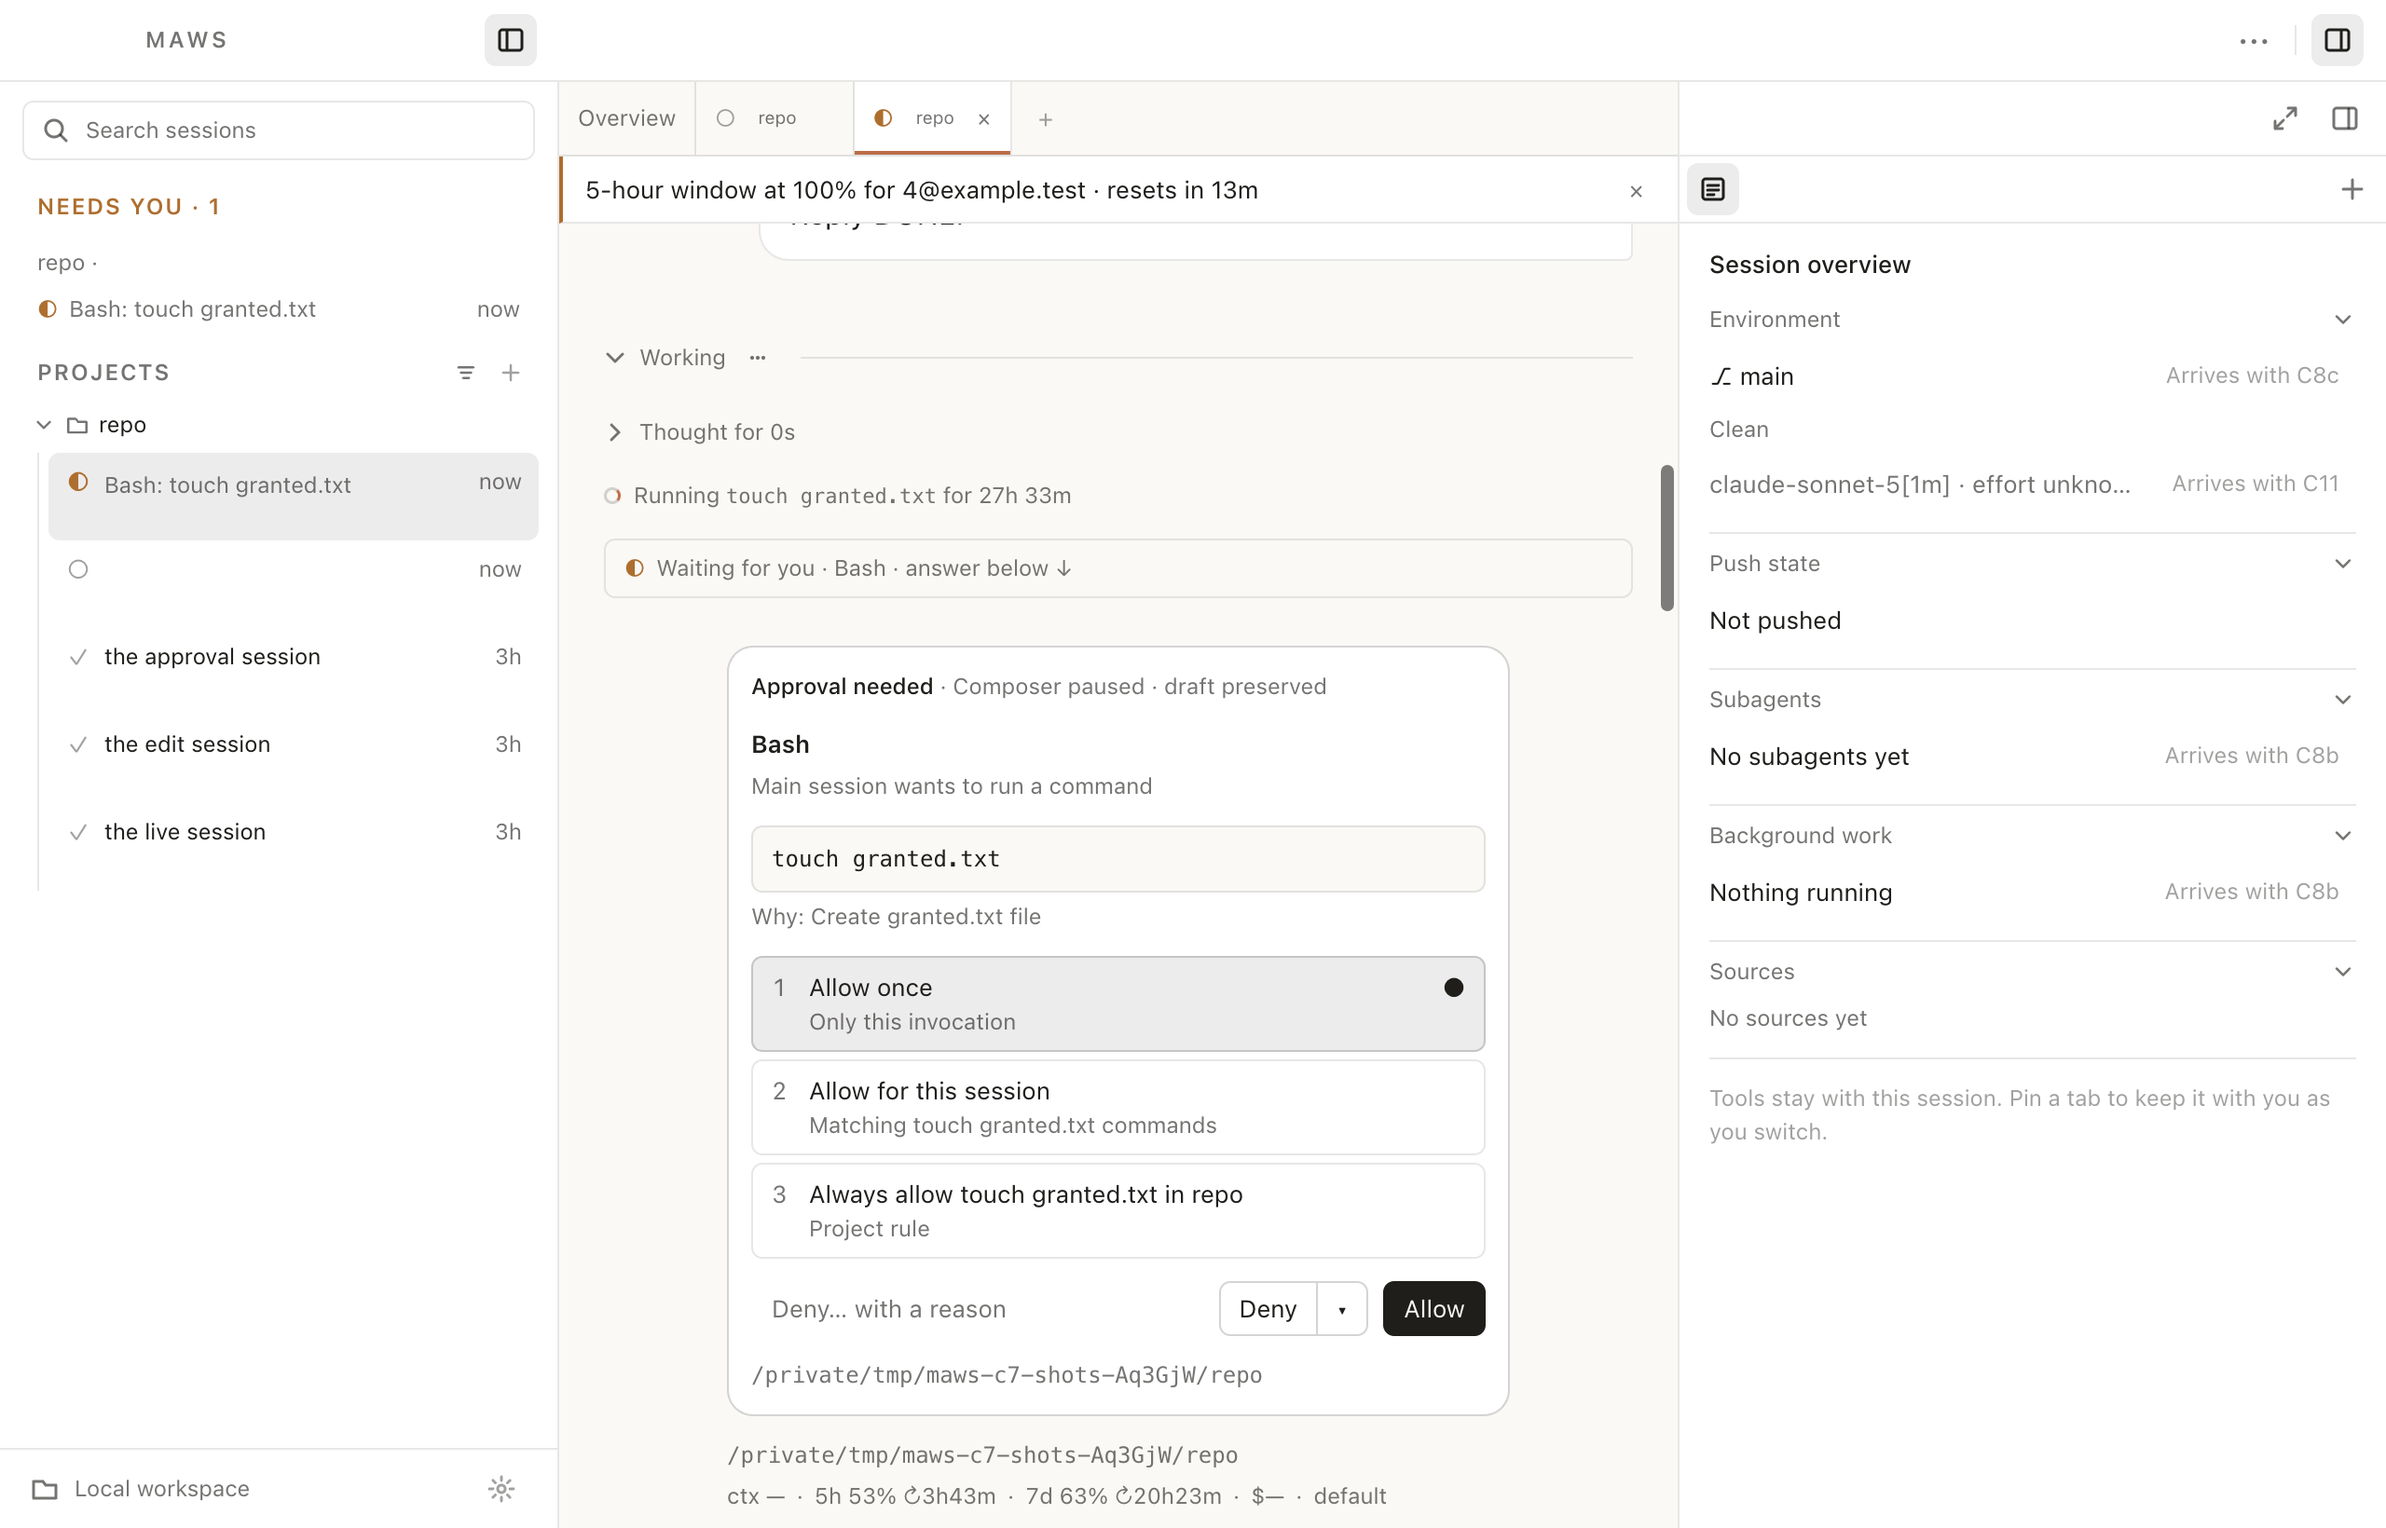
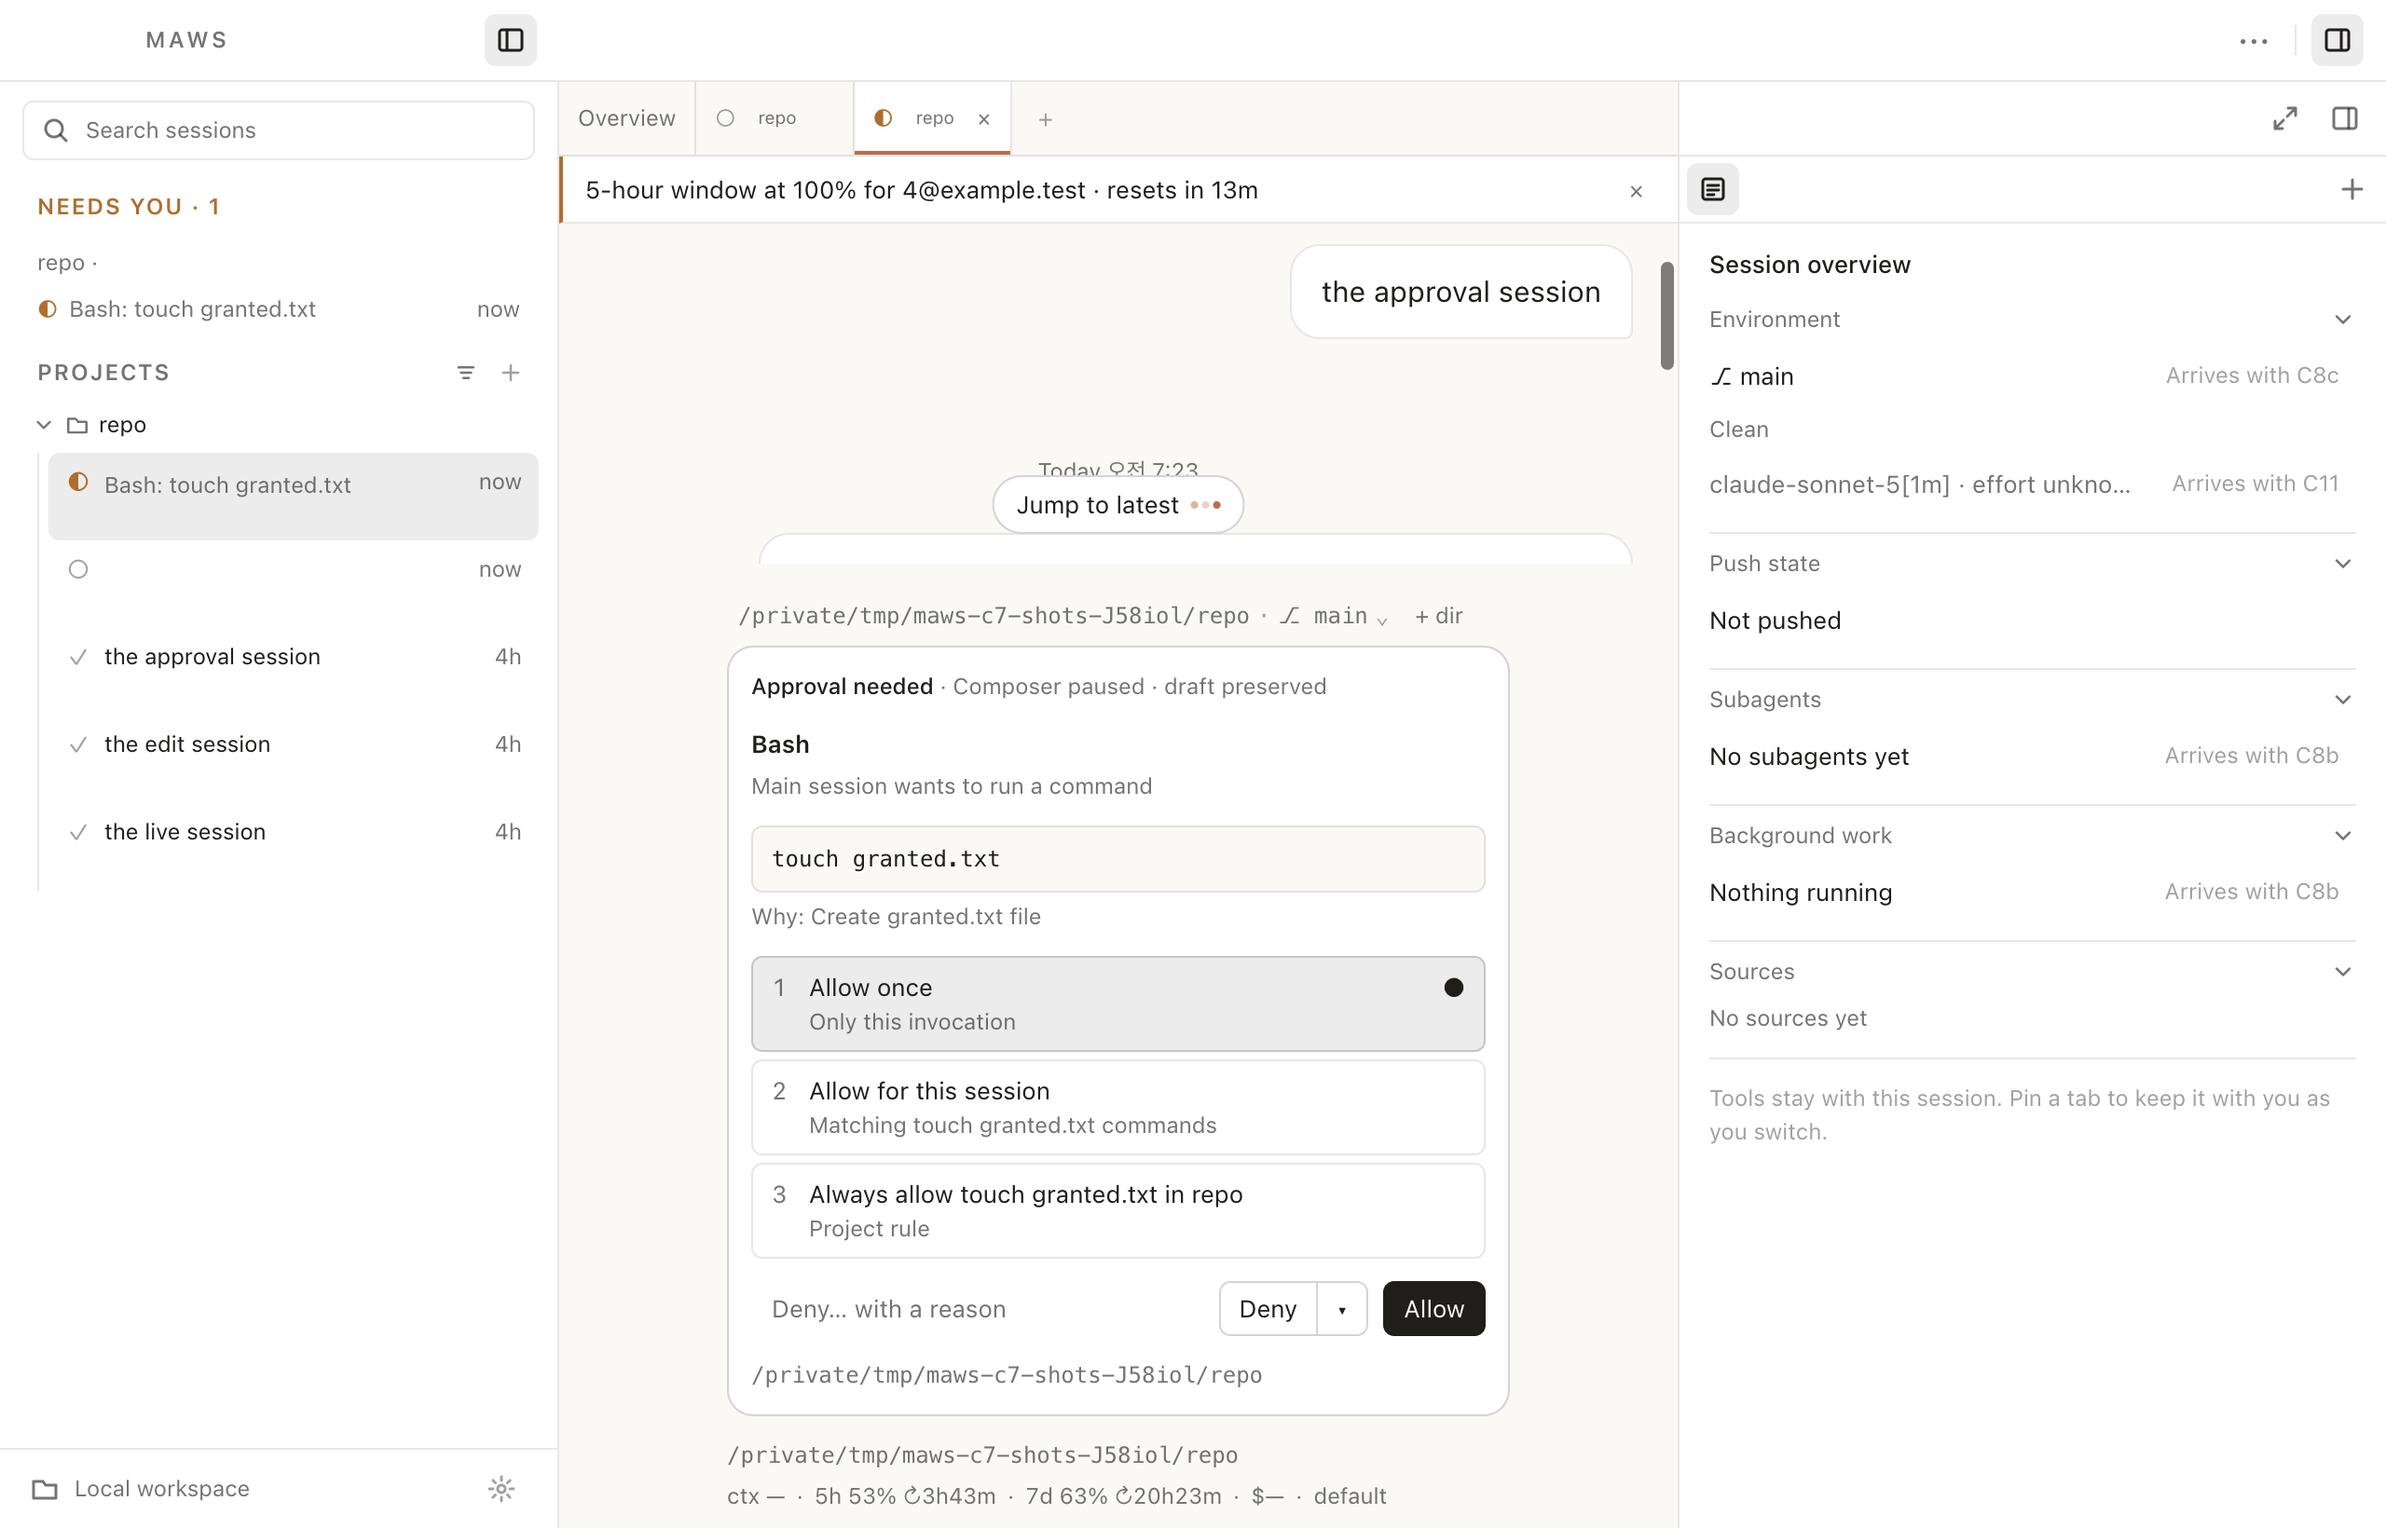
C7 final fixes (architect's ruling on M6): a docked card takes the place of the box and the toolbar under the same chip row (mockup 04), hiding them in the commit it mounts; approval shots retaken

diff --git a/src/renderer/src/composer/frame/Frame.tsx b/src/renderer/src/composer/frame/Frame.tsx
@@ -4,6 +4,9 @@
 // editor scrolls); the toolbar below the box, outside its border. Nothing around it: no heading, no hint line. The
 // same component sits centred on an unstarted session and docked under the transcript (C5 places it); C5's column
 // sizes it at about two thirds of the pane capped near 720 px, and the frame caps itself there too for other hosts.
+// A docked card (a request, or C10's trust and relay-down cards) takes the place of the draft's parts, the attachment
+// strip, the box and the toolbar, under the same chip row (architect's ruling on M6, mockup 04): those parts stay
+// mounted and hidden, so the editor keeps its document, and they hide in the same commit the card mounts.
 import type { ReactNode, RefObject } from 'react';
 import type { Attachment } from '../editor/doc';
 import type { EditorHandle } from '../editor/controller';
@@ -20,20 +23,24 @@ export interface FrameProps {
   editorHandle: RefObject<EditorHandle | null>;
   editor: ReactNode; // M3's Editor (the only element under the composer key sink)
   submit: ReactNode; // the submit control, beside the editor and outside its sink
-  hidden?: boolean; // a docked card has the composer's place: the frame stays mounted (the editor keeps its state)
+  docked?: ReactNode; // a docked card, in the draft's place under the chip row; null or absent: the draft shows
   onOpen?(what: 'models' | 'rules'): void; // a chip showing an engine read opened: the composer reads it then, not per mount
 }
 
-export function Frame({ bindings, cwd, dirty, attachments, editorHandle, editor, submit, hidden = false, onOpen }: FrameProps) {
+export function Frame({ bindings, cwd, dirty, attachments, editorHandle, editor, submit, docked = null, onOpen }: FrameProps) {
+  const isDocked = docked !== null && docked !== undefined;
   return (
-    <div data-composer-frame hidden={hidden} className="mx-auto flex w-full max-w-[720px] min-w-0 flex-col gap-1">
+    <div data-composer-frame data-docked={isDocked || undefined} className="mx-auto flex w-full max-w-[720px] min-w-0 flex-col gap-1">
       <ChipRow bindings={bindings} cwd={cwd} dirty={dirty} onOpen={() => onOpen?.('rules')} />
-      <AttachmentStrip attachments={attachments} onRemove={(id) => editorHandle.current?.removeAttachment(id)} />
-      <div data-composer-box className="flex min-w-0 items-end gap-2 rounded-xl border border-border-strong bg-bg-raised py-1.5 pr-1.5 pl-2.5 focus-within:border-accent">
-        <div className="min-w-0 flex-1 py-0.5">{editor}</div>
-        {submit}
+      {docked}
+      <div data-composer-draft hidden={isDocked} className="flex min-w-0 flex-col gap-1">
+        <AttachmentStrip attachments={attachments} onRemove={(id) => editorHandle.current?.removeAttachment(id)} />
+        <div data-composer-box className="flex min-w-0 items-end gap-2 rounded-xl border border-border-strong bg-bg-raised py-1.5 pr-1.5 pl-2.5 focus-within:border-accent">
+          <div className="min-w-0 flex-1 py-0.5">{editor}</div>
+          {submit}
+        </div>
+        <Toolbar bindings={bindings} cwd={cwd} editor={editorHandle} onOpen={() => onOpen?.('models')} />
       </div>
-      <Toolbar bindings={bindings} cwd={cwd} editor={editorHandle} onOpen={() => onOpen?.('models')} />
     </div>
   );
 }

diff --git a/src/renderer/src/composer/Composer.test.tsx b/src/renderer/src/composer/Composer.test.tsx
@@ -229,14 +229,18 @@ describe("composer DOM under C5's dispatcher", () => {
     const item = itemFor(event, A);
     act(() => useAttention.setState({ bySession: new Map([[A, [item]]]), requests: new Map([[item.id, event]]), version: 1 }));
     const frame = await within(composerOf(0)).findByRole('group', { name: 'Approval needed' });
-    expect(composerOf(0).querySelector('[data-composer-frame]')!.hasAttribute('hidden')).toBe(true);
+    expect(composerOf(0).querySelector('[data-composer-draft]')!.hasAttribute('hidden')).toBe(true); // the box and the toolbar
+    const chips = within(composerOf(0)).getByRole('button', { name: /^Location/ });
+    expect(chips.closest('[hidden]')).toBeNull(); // the chip row stays, above the card (mockup 04)
+    expect(chips.compareDocumentPosition(frame) & Node.DOCUMENT_POSITION_FOLLOWING).toBeTruthy();
+    expect(within(composerOf(0)).getByRole('toolbar', { name: 'Composer tools', hidden: true }).closest('[hidden]')).not.toBeNull();
     expect(editorOf().editor.getText()).toBe('a draft kept aside'); // mounted, hidden
     await waitFor(() => expect(document.activeElement).toBe(frame)); // the pane held focus
     expect(useComposerStore.getState().docked.get(A)?.has('req-a' as never)).toBe(true);
     await key(frame, { key: 'Enter' });
     await waitFor(() => expect(invoked('session.answer')).toHaveLength(1));
     act(() => useAttention.setState({ bySession: new Map([[A, []]]), version: 2 }));
-    await waitFor(() => expect(composerOf(0).querySelector('[data-composer-frame]')!.hasAttribute('hidden')).toBe(false));
+    await waitFor(() => expect(composerOf(0).querySelector('[data-composer-draft]')!.hasAttribute('hidden')).toBe(false));
     expect(editorOf().editor.getText()).toBe('a draft kept aside');
     await waitFor(() => expect(editorOf().contains(document.activeElement)).toBe(true)); // focus is back in the editor
   });
@@ -273,12 +277,12 @@ describe("composer DOM under C5's dispatcher", () => {
     const onAccept = vi.fn();
     const undock = dockCard(A, { id: 'c10:trust', render: () => <DockedCardFrame appSessionId={A} title="Trust this folder?" onAccept={onAccept} onDecline={null}>Trust?</DockedCardFrame> });
     const frame = await within(composerOf(0)).findByRole('group', { name: 'Trust this folder?' });
-    expect(composerOf(0).querySelector('[data-composer-frame]')!.hasAttribute('hidden')).toBe(true);
+    expect(composerOf(0).querySelector('[data-composer-draft]')!.hasAttribute('hidden')).toBe(true);
     act(() => frame.focus());
     await key(frame, { key: 'Enter' });
     expect(onAccept).toHaveBeenCalledTimes(1);
     act(() => undock());
-    await waitFor(() => expect(composerOf(0).querySelector('[data-composer-frame]')!.hasAttribute('hidden')).toBe(false));
+    await waitFor(() => expect(composerOf(0).querySelector('[data-composer-draft]')!.hasAttribute('hidden')).toBe(false));
     expect(editorOf().editor.getText()).toBe('still here');
   });
 

diff --git a/src/renderer/src/composer/Composer.tsx b/src/renderer/src/composer/Composer.tsx
@@ -2,8 +2,9 @@
 // "Unstarted sessions and the docked host"; M4): what C7 renders in C5's `composer` slot for a live, exited or
 // unstarted session. The queued list, then the frame: the chip row over the live or the intent binding, the attachment
 // strip, the box with M3's editor and the submit control, the toolbar. When a request or a docked card needs the
-// human, it takes the frame's place (the frame stays mounted and hidden, so the editor keeps its document, history and
-// undo) and the docked frame takes focus when the pane held it; when it retires, focus goes back to the editor.
+// human, it takes the place of the box and the toolbar under the chip row (they stay mounted and hidden, so the editor
+// keeps its document, history and undo) and the docked frame takes focus when the pane held it; when it retires, focus
+// goes back to the editor.
 //
 // Every submission ends in the editor's `onSubmit`, decided here through `submitState`: an unstarted session's first
 // send goes to C10's `start` under the synchronous `starting` gate; a live one sends (C3 decides sent or queued),
@@ -369,14 +370,19 @@ export function Composer({ appSessionId, paneIndex, client = ipc }: ComposerProp
         <RewindConfirm newerTurn={newerTurn} onConfirm={() => void confirmRewind(client, appSessionId, newerTurn ? newest : null)} onCancel={() => cancelRewind(appSessionId)} />
       )}
       {swap.notice && <RequestCard key={swap.notice.id} item={swap.notice} request={null} placement="docked" paneIndex={paneIndex} />}
-      {card ? (
-        <div key={`card:${card.id}`}>{card.render()}</div>
-      ) : swap.item ? (
-        <RequestCard key={swap.item.id} item={swap.item} request={requests.get(swap.item.id) ?? null} placement="docked" paneIndex={paneIndex} />
-      ) : null}
-      {docked && waiting > 0 && <p className="m-0 text-ui-sm text-fg-muted">{waiting === 1 ? '1 more waiting' : `${waiting} more waiting`}</p>}
       <Frame
-        hidden={docked}
+        docked={
+          docked ? (
+            <>
+              {card ? (
+                <div key={`card:${card.id}`}>{card.render()}</div>
+              ) : swap.item ? (
+                <RequestCard key={swap.item.id} item={swap.item} request={requests.get(swap.item.id) ?? null} placement="docked" paneIndex={paneIndex} />
+              ) : null}
+              {waiting > 0 && <p className="m-0 text-ui-sm text-fg-muted">{waiting === 1 ? '1 more waiting' : `${waiting} more waiting`}</p>}
+            </>
+          ) : null
+        }
         onOpen={(what) => setOpened((o) => (o[what] ? o : { ...o, [what]: true }))}
         bindings={bindings}
         cwd={cwd}

diff --git a/e2e/composer.spec.ts b/e2e/composer.spec.ts
@@ -539,6 +539,8 @@ test('an unstarted session binds the frame to the intent, holds a starting state
   const frame = p.getByRole('group', { name: 'Trust this folder?' });
   await expect(frame).toBeFocused();
   await expect(messageIn(page, 0)).toBeHidden();
+  await expect(p.getByRole('toolbar', { name: 'Composer tools' })).toBeHidden(); // the card takes the box's and the toolbar's place
+  await expect(p.getByRole('button', { name: `Location ${repo}` })).toBeVisible(); // under the same chip row (mockup 04)
   await page.keyboard.press('Enter');
   await expect.poll(() => cards(page, 'stubAccepts')).toBe(1);
   await cards(page, 'undockStub');
